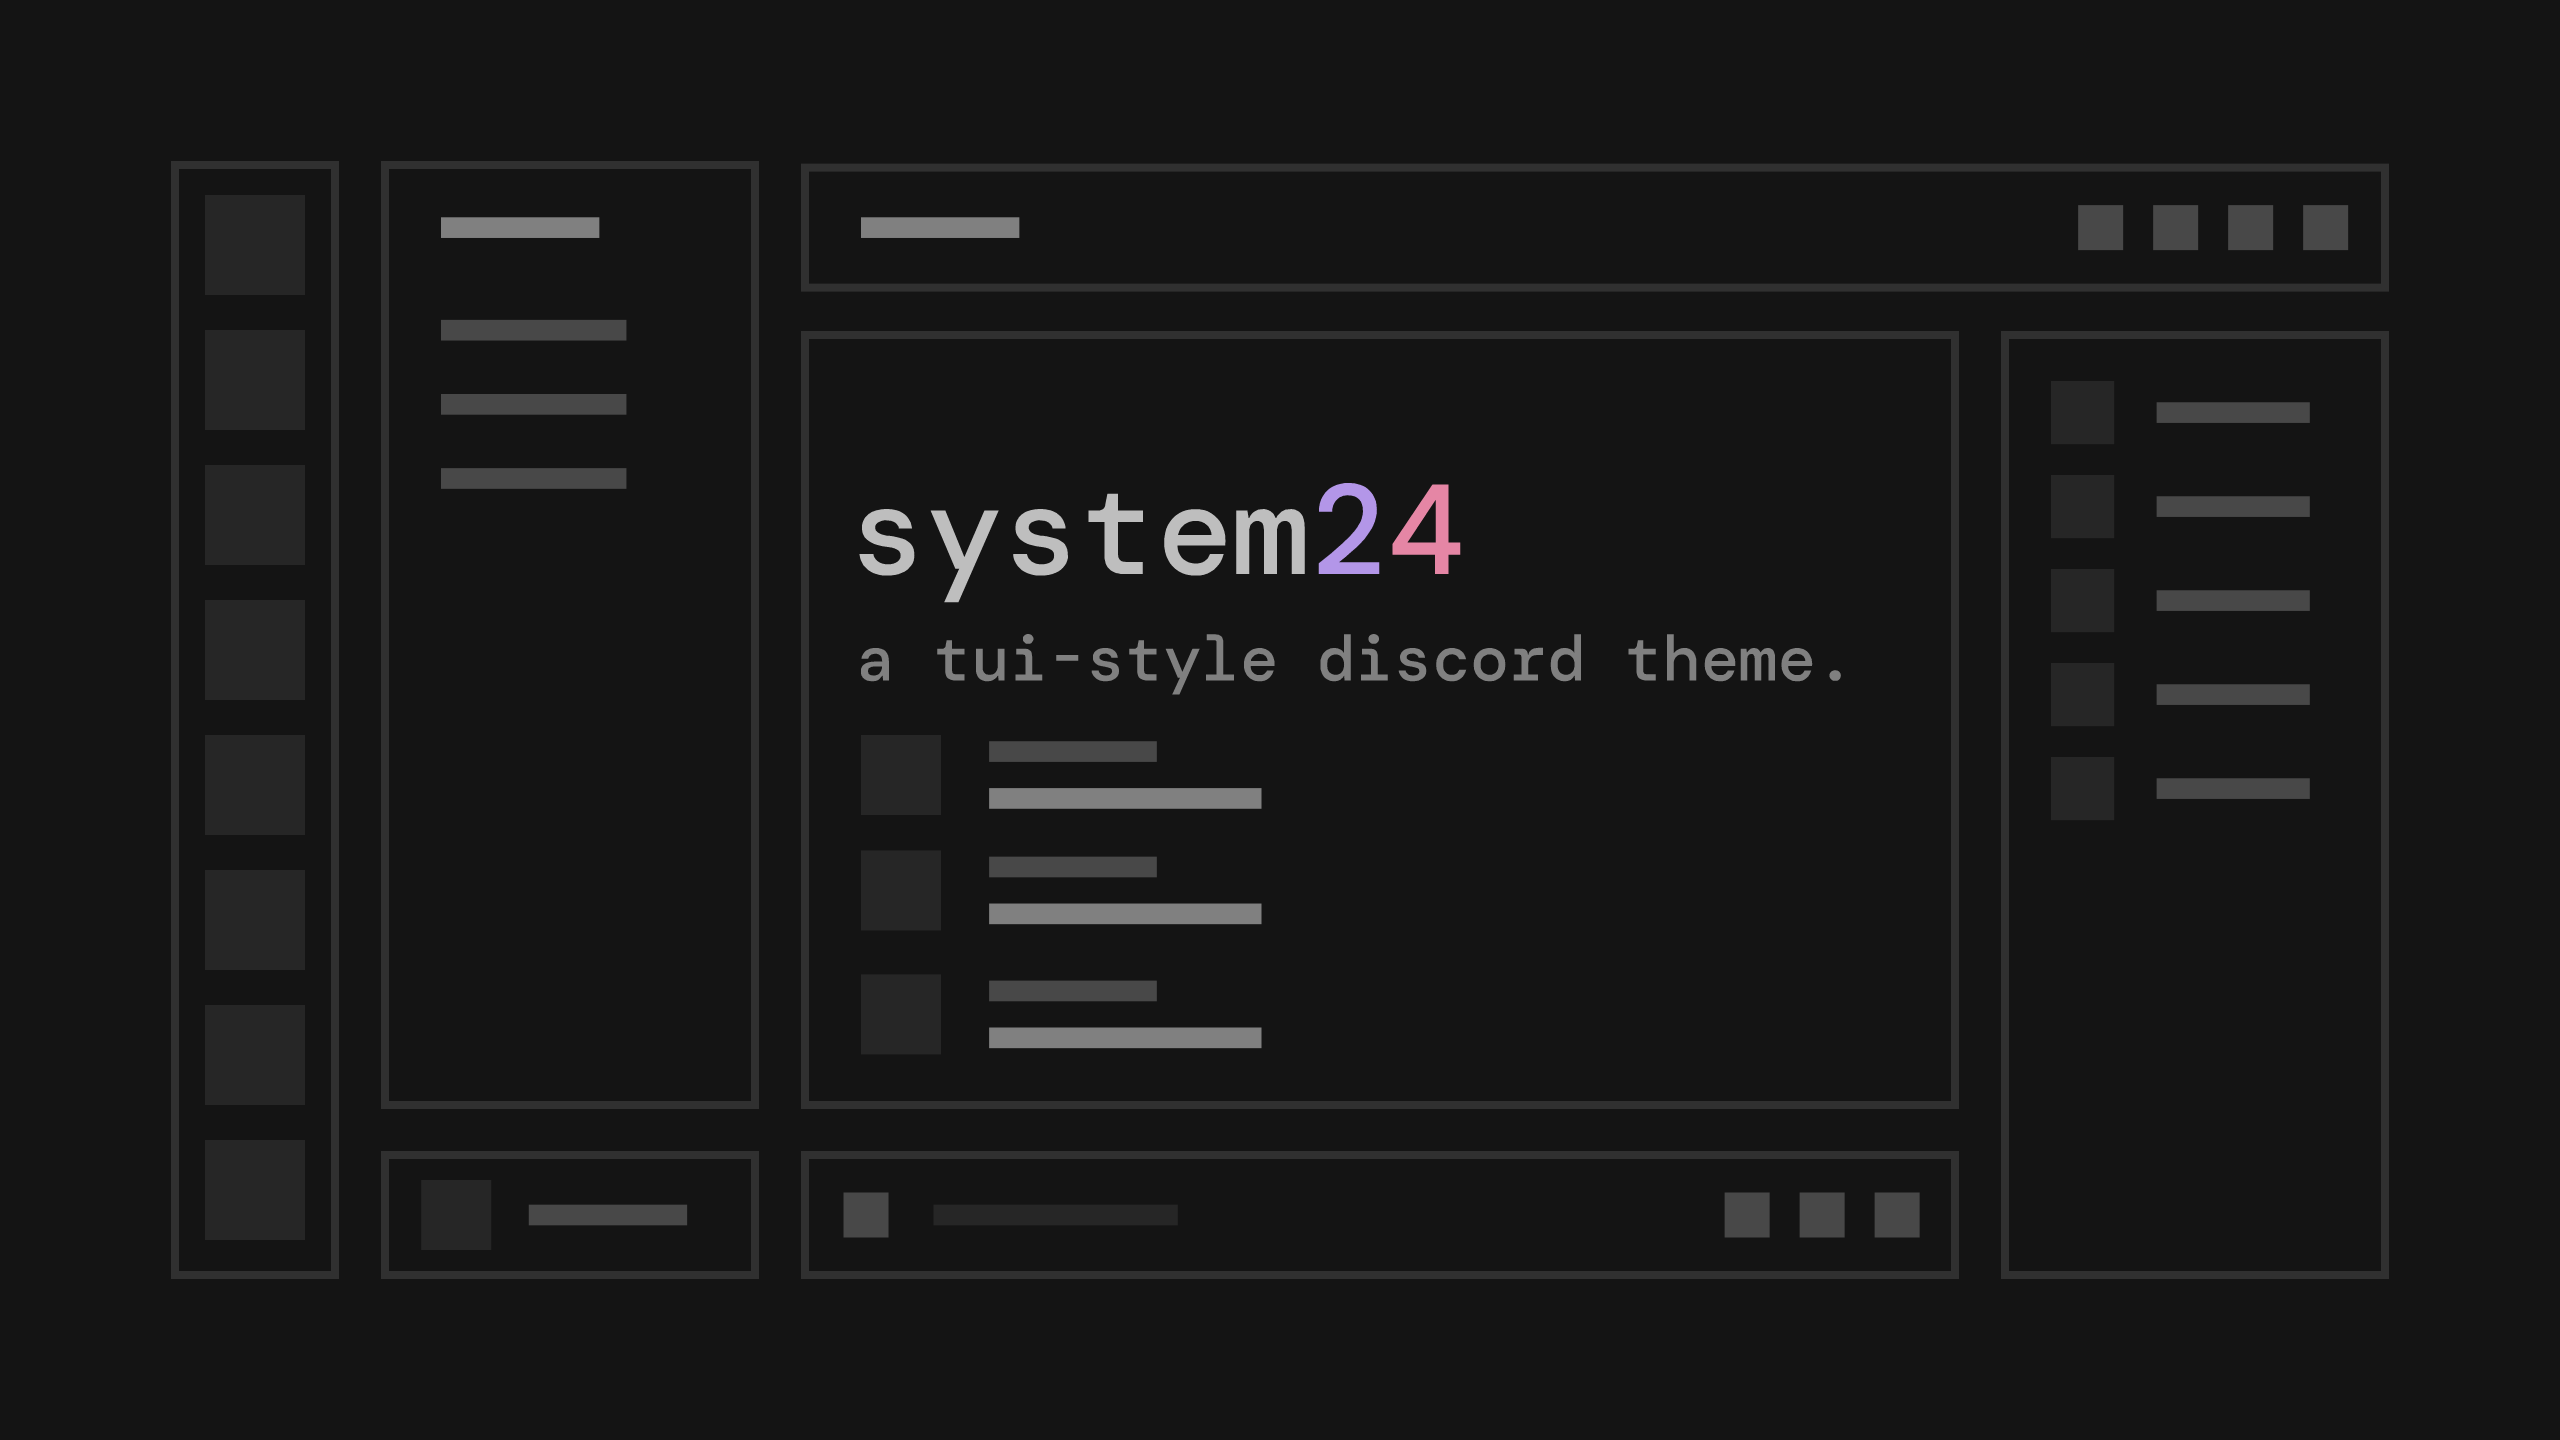
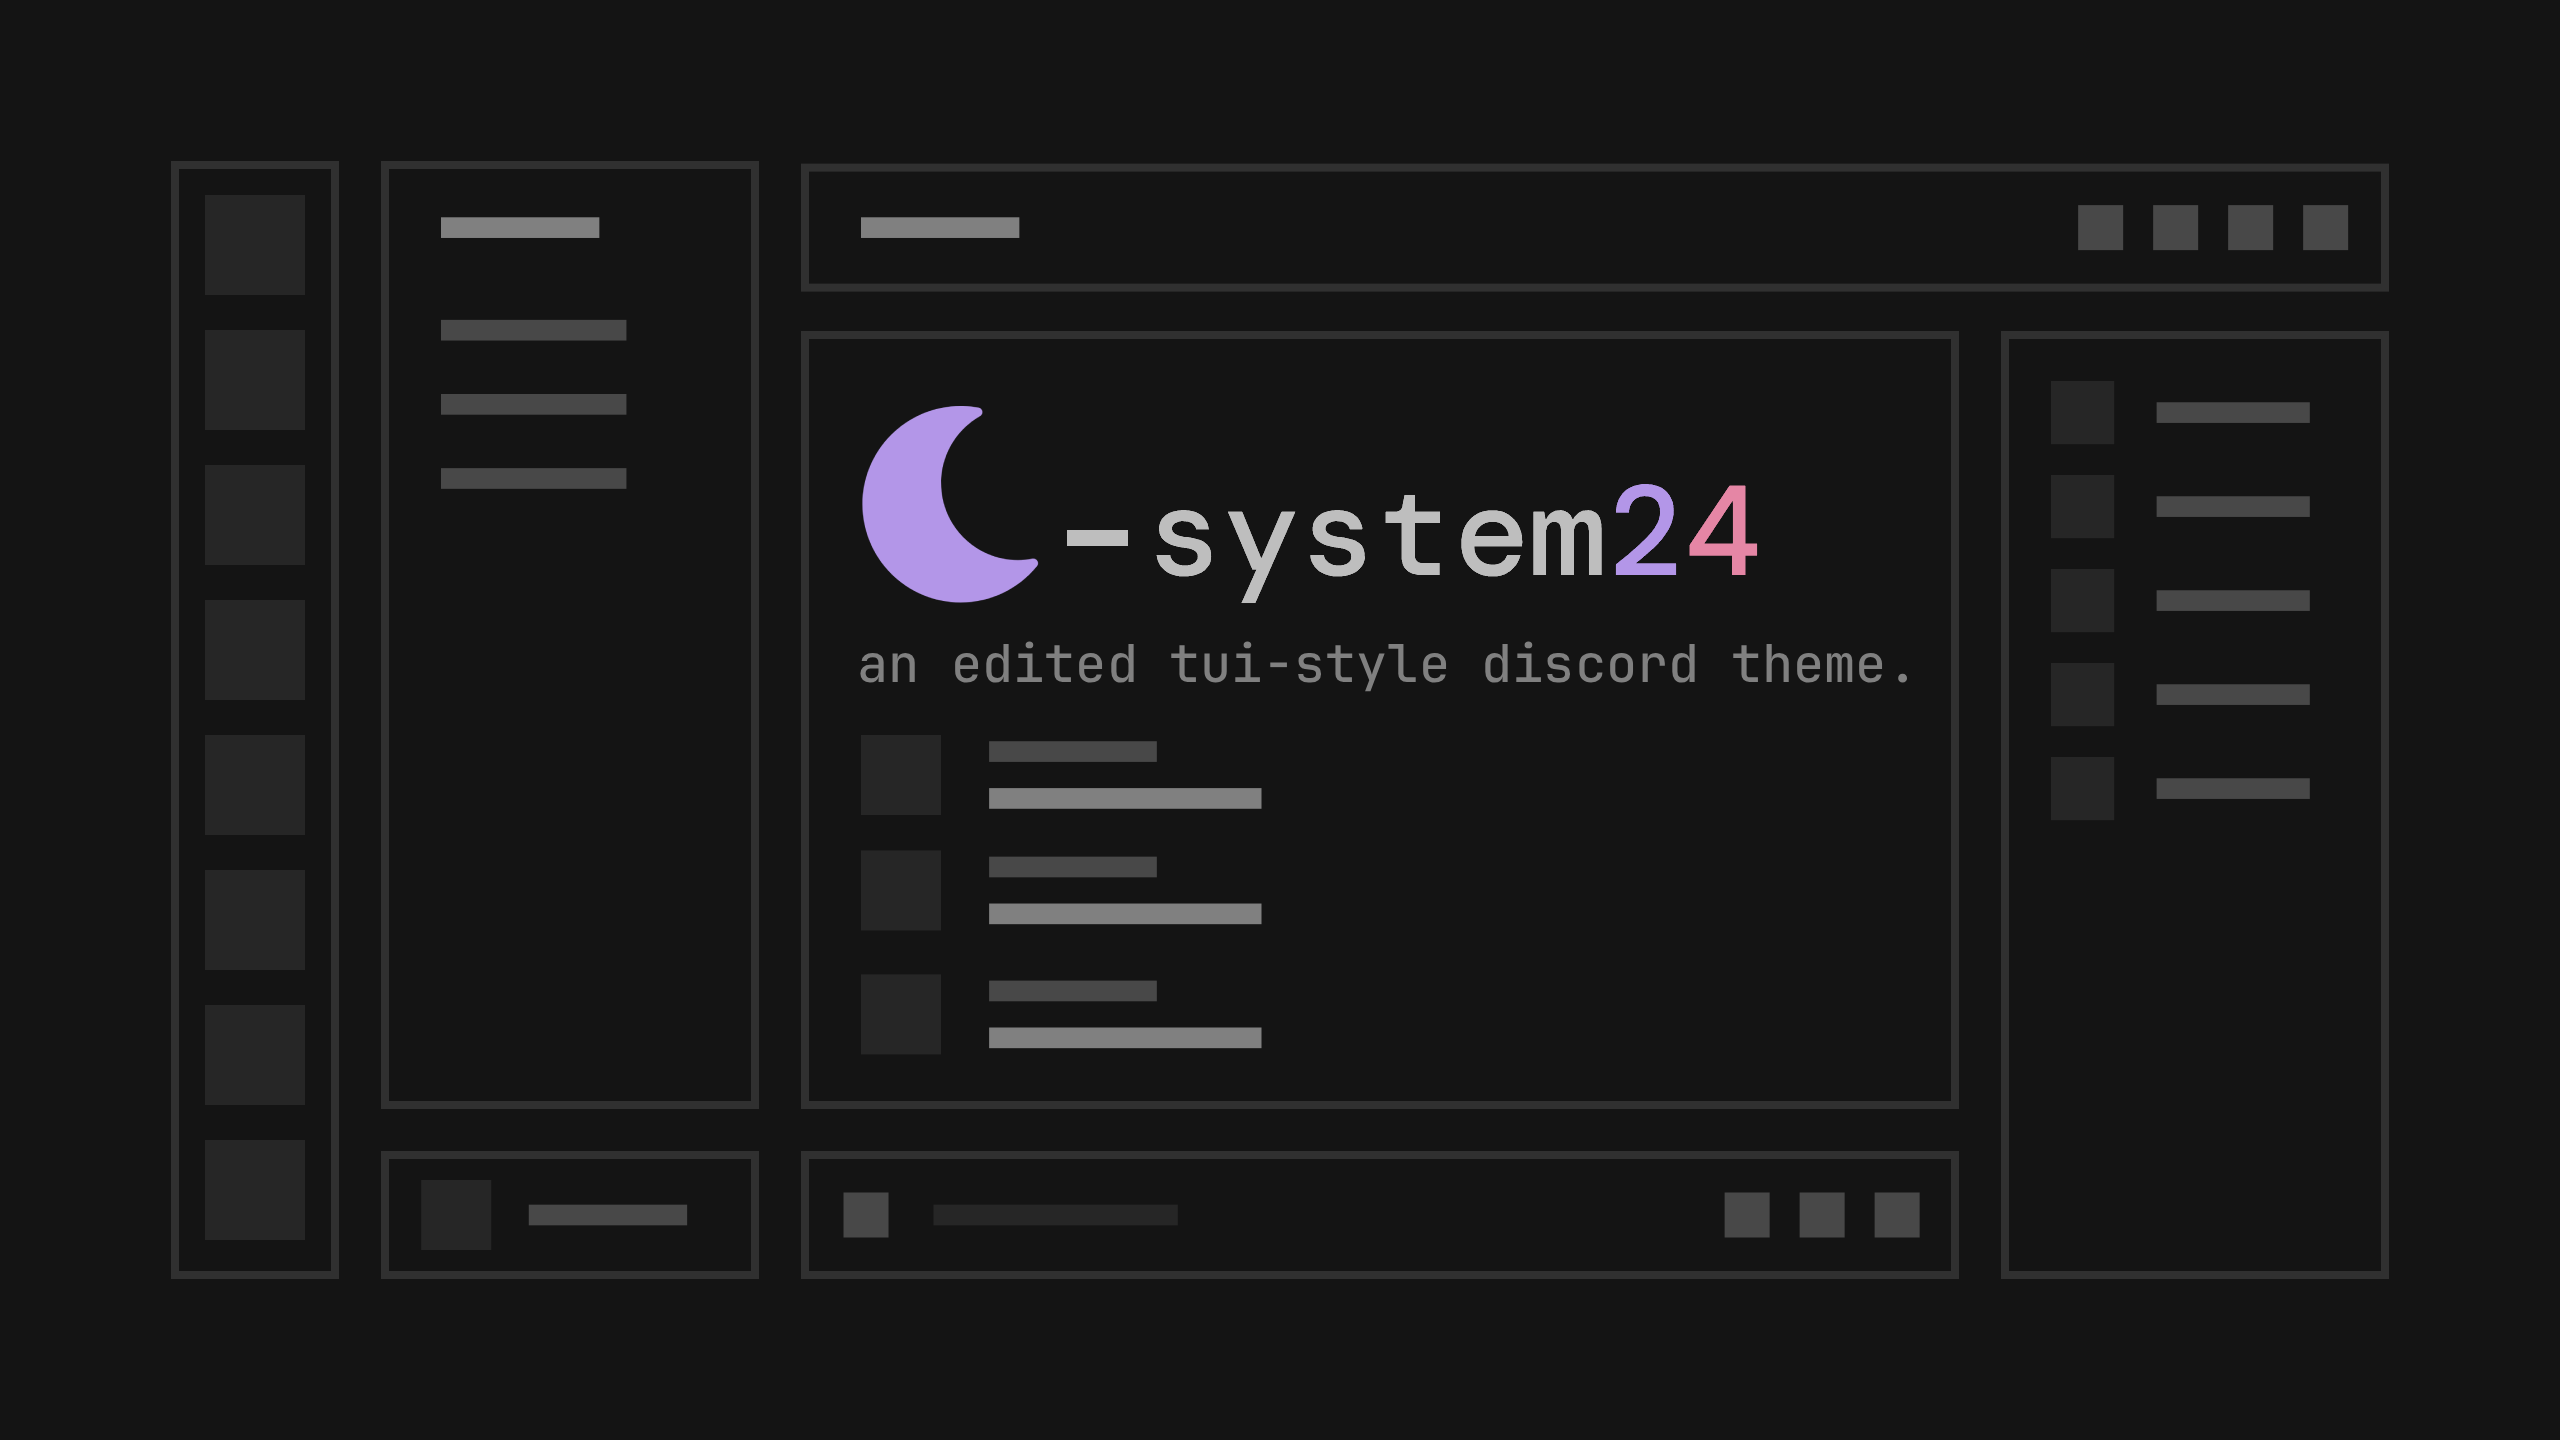
edited metadata and readme

Changed region(s): [[0.3125, 0.2812, 0.75, 0.5]]

diff --git a/scripts/theme.config.js b/scripts/theme.config.js
@@ -1,7 +1,7 @@
 module.exports = {
-    baseFile: 'theme/system24.theme.css',
-    buildFile: 'build/system24.css',
-    buildImport: "@import url('https://refact0r.github.io/system24/build/system24.css');",
-    displayName: 'system24',
+    baseFile: 'theme/luna-system24.theme.css',
+    buildFile: 'build/luna-system24.css',
+    buildImport: "@import url('https://loyness.github.io/luna-system24/build/luna-system24.css');",
+    displayName: 'luna-system24',
     sourceFiles: ['main.css', 'animations.css', 'ascii.css', 'colors.css', 'panel-labels.css', 'spotify-bar.css', 'unrounding.css'],
 };

diff --git a/src/main.css b/src/main.css
@@ -7,7 +7,7 @@
     font-weight: 400;
     src:
         local('asciid'),
-        url('https://refact0r.github.io/system24/assets/asciid.woff') format('woff');
+        url('https://loyness.github.io/luna-system24/assets/asciid.woff') format('woff');
 }
 
 body {

diff --git a/theme/README.md b/theme/README.md
@@ -1,46 +1,52 @@
 
-<img src="https://github.com/refact0r/system24/raw/main/assets/preview.png">
+<img src="https://github.com/Loyness/luna-system24/raw/main/assets/preview.png">
 
-# system24
+# luna-system24
 
 a customizable, tui-style discord theme. inspired by [spicetify text theme](https://github.com/spicetify/spicetify-themes/tree/master/text).
 
-<img src="https://github.com/refact0r/system24/raw/main/assets/screenshot.png">
-
-## discord server
-
-need help? want to get notified about updates? have feedback? join <https://discord.gg/nz87hXyvcy>
+<img src="https://github.com/Loyness/luna-system24/raw/main/assets/screenshot.png">
 
 ## install
 
 ### vencord/betterdiscord (or any client that supports theme files)
 
-1. download the theme file, [`system24.theme.css`](https://github.com/refact0r/system24/blob/main/theme/system24.theme.css). (there should be a download button at the top right of the page)
+1. download the theme file, [`luna-system24.theme.css`](https://github.com/Loyness/luna-system24/blob/main/theme/luna-system24.theme.css). (there should be a download button at the top right of the page)
 2. drag the file into your theme folder. (there should be a button to open the theme folder in theme settings)
-3. (optional) customize the theme by editing the options in `system24.theme.css`.
+3. (optional) customize the theme by editing the options in `luna-system24.theme.css`.
 
 ### install through link
 
-add `https://refact0r.github.io/system24/build/system24.css` to your theme import links. you will need to copy the theme variables to your quickcss in order to customize the theme.
+add `https://loyness.github.io/luna-system24/build/luna-system24.css` to your theme import links. you will need to copy the theme variables to your quickcss in order to customize the theme.
+
+### edit QuickCSS
+
+just add these in your quickcss to apply:
+```css
+@import url('https://loyness.github.io/luna-system24/build/luna-system24.css');
+```
+it supports auto updating
 
 ## flavors
 
 customized variants of the theme.
 
-- [catppuccin mocha](https://github.com/refact0r/system24/blob/main/theme/flavors/system24-catppuccin-mocha.theme.css)
-- [catppuccin macchiato](https://github.com/refact0r/system24/blob/main/theme/flavors/system24-catppuccin-macchiato.theme.css)
-- [everforest](https://github.com/refact0r/system24/blob/main/theme/flavors/system24-everforest.theme.css)
-- [rosé pine](https://github.com/refact0r/system24/blob/main/theme/flavors/system24-rose-pine.theme.css)
-- [rose pine moon](https://github.com/refact0r/system24/blob/main/theme/flavors/system24-rose-pine-moon.theme.css)
-- [tokyo night](https://github.com/refact0r/system24/blob/main/theme/flavors/system24-tokyo-night.theme.css)
-- [nord](https://github.com/refact0r/system24/blob/main/theme/flavors/system24-nord.theme.css)
-- [vencord](https://github.com/refact0r/system24/blob/main/theme/flavors/system24-vencord.theme.css)
+  - [catppuccin mocha](https://github.com/Loyness/luna-system24/blob/main/theme/flavors/system24-catppuccin-mocha.theme.css)
+  - [catppuccin macchiato](https://github.com/Loyness/luna-system24/blob/main/theme/flavors/system24-catppuccin-macchiato.theme.css)
+  - [everforest](https://github.com/Loyness/luna-system24/blob/main/theme/flavors/system24-everforest.theme.css)
+  - [rosé pine](https://github.com/Loyness/luna-system24/blob/main/theme/flavors/system24-rose-pine.theme.css)
+  - [rose pine moon](https://github.com/Loyness/luna-system24/blob/main/theme/flavors/system24-rose-pine-moon.theme.css)
+  - [tokyo night](https://github.com/Loyness/luna-system24/blob/main/theme/flavors/system24-tokyo-night.theme.css)
+  - [nord](https://github.com/Loyness/luna-system24/blob/main/theme/flavors/system24-nord.theme.css)
+  - [vencord](https://github.com/Loyness/luna-system24/blob/main/theme/flavors/system24-vencord.theme.css)
 
 ## contributing
 
 this theme depends on [midnight](https://github.com/refact0r/midnight-discord) for its core styles. if you're looking to contribute, please consider which theme you actually want to work on. feel free to open an issue and ask if you're unsure.
 
-this theme uses a dev script to check for changes in the source css files and combine them into a build file. to run locally:
+this theme uses a dev script to check for changes in the /src .css files and combine them into a build file in /build. note that both the /src files and the /build file are tracked in git, so any changes you contribute should exist in both places!!
+
+to run locally:
 
 1. clone the repository.
 2. run `npm i`.
@@ -58,4 +64,4 @@ DEV_OUTPUT_PATH=C:\Users\USERNAME\AppData\Roaming\Vencord\themes\system24-dev.th
 
 [spicetify text theme](https://github.com/spicetify/spicetify-themes/tree/master/text) for primary design inspiration.
 
-thanks to all the [contributors](https://github.com/refact0r/system24/graphs/contributors)!
+thanks to [refact0r](https://github.com/refact0r) and all the [contributors](https://github.com/refact0r/system24/graphs/contributors) from his original repo!